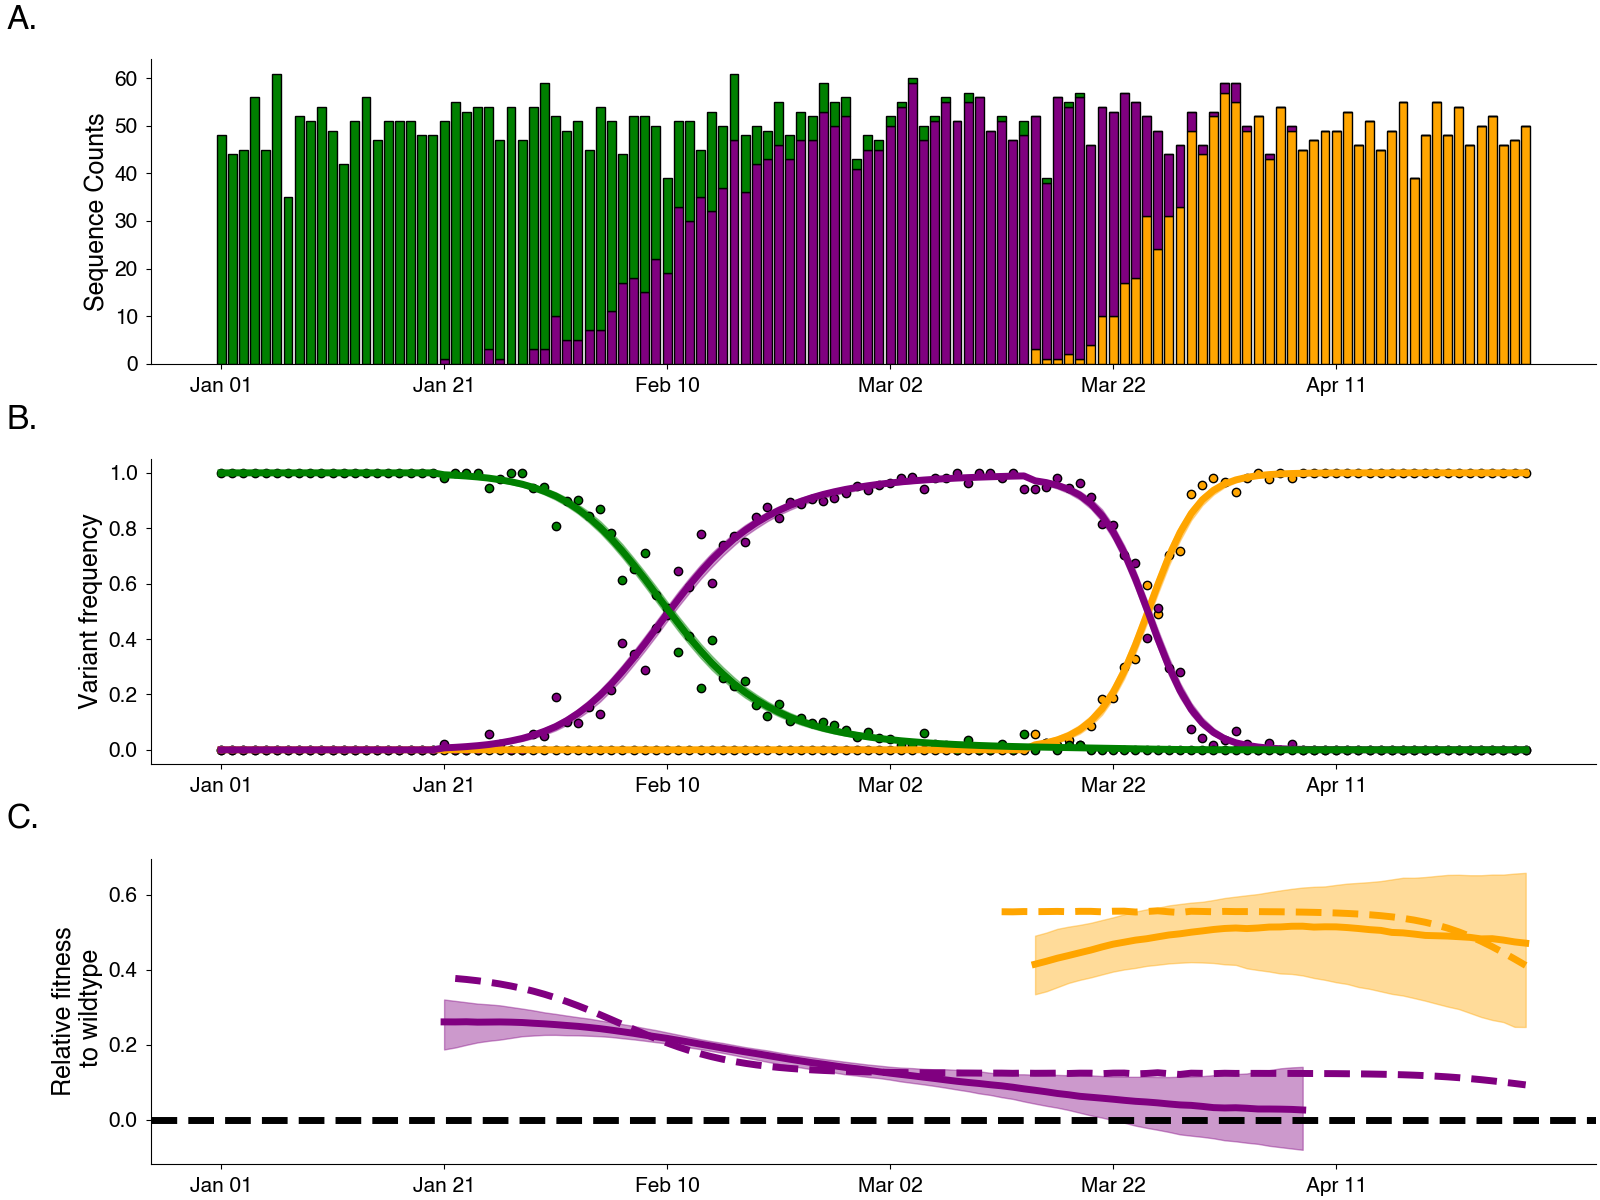
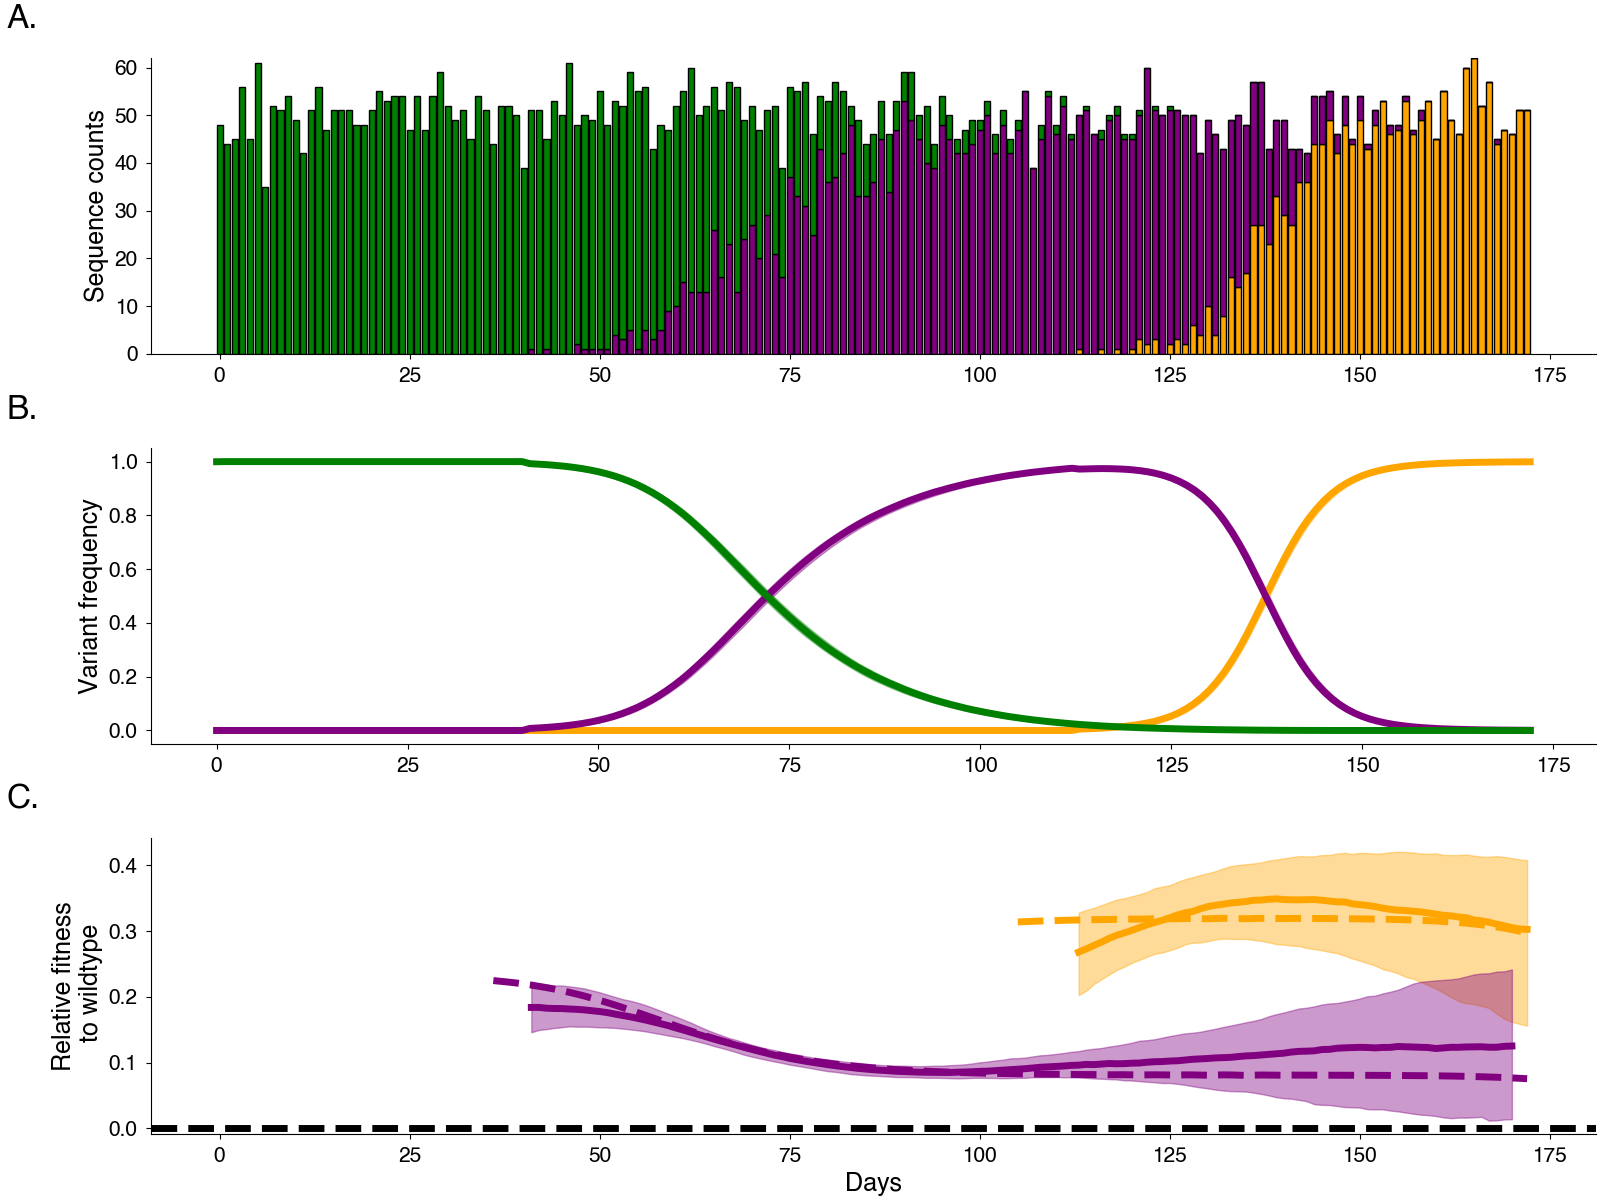
Address Figure 1 suggestions

diff --git a/manuscript/relative-fitness-mechanisms.tex b/manuscript/relative-fitness-mechanisms.tex
@@ -222,20 +222,16 @@ We summarize dynamics of a three-variant mechanistic transmission model in Figur
       \textbf{Simulated variant dynamics in a mechanistic model.}
       Mechanistic transmission models constrain variant frequency dynamics by specifying a functional form for relative fitnesses.
       Simulations of a three-variant model including a wildtype, one intrinsic transmission variant, and one immune escape variant show the relationship between population-level transmission and selection for variants.
-      We begin the simulation with initial wildtype prevalence $I_\wt(0) = 10^{-4}$, effective reproduction number $R_{0,\wt} = 1.4$, and duration of infection $\gamma^{-1} = 1.8$ days.
-      \tbc{I assumed that you meant initial \textit{prevalence} of $10^{-4}$ and not initial \textit{frequency} of $10^{-4}$.}
-      \tbc{Duration of infection of 1.8 days is really fast. I know this is meant as a toy simulation, but it's still nice for toy simulations to have realistic parameters. I'd suggest updating this to $\gamma^{-1} = 3.0$ days and just adjusting the x axis timeframe correspondingly.}
+      We begin the simulation with initial wildtype prevalence $I_\wt(0) = 1$, effective reproduction number $R_{0,\wt} = 1.4$, and duration of infection $\gamma^{-1} = 3.0$ days.
       We introduce the transmissibility variant at $t=20$ with frequency $f_T(20) = 10^{-5}$ and transmissibility increase $\varTransmission_T = 1.5$.
       We introduce the escape variant at $t=70$ with frequency $f_E(70) = 10^{-6}$ and $\varEscape_E = 1.05$.
       % TB: I was confused by \eta_E and \eta_T, assuming this meant transmissibility of E and T, when instead it's degree of escape vs degree of transmissibility. I think it will be clearer moving to \eta for "escape" and \rho for "transmission"
       (A) Prevalence $I$ by variant.
-      \tbc{I don't understand the units on prevalence. The y axis goes to 0.05. I believe you're actually showing $I/N$ rather than $I$. Reading the text where prevalence is specified as $I_v(t)$ I assumed that prevalence is number of hosts. I'd either specify in the text that you mean prevalence as fraction of the population or use a specific host population size and report prevalence as number of hosts.}
       (B) Exponential growth rate $r$ by variant.
       (C) Variant frequency $f$.
       (D) Fitness relative to wildtype $\lambda$.
       (E) Underlying immune pools.
       (F) Effective reproduction number $R_t$ by variant.
-      \tbc{Label the x-axis with "Days".}
     }
     \label{fig:vis_mechanisms}
 \end{figure}
